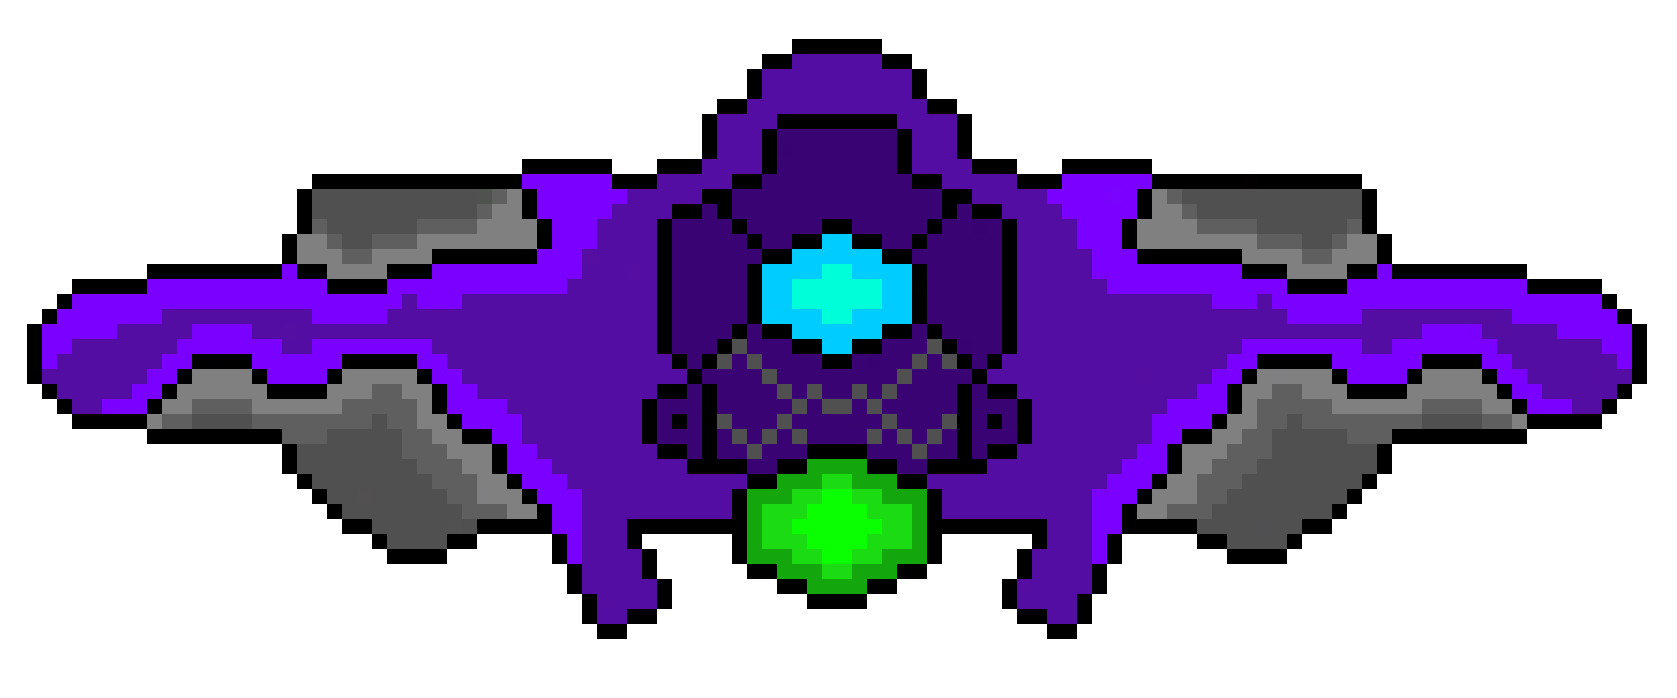
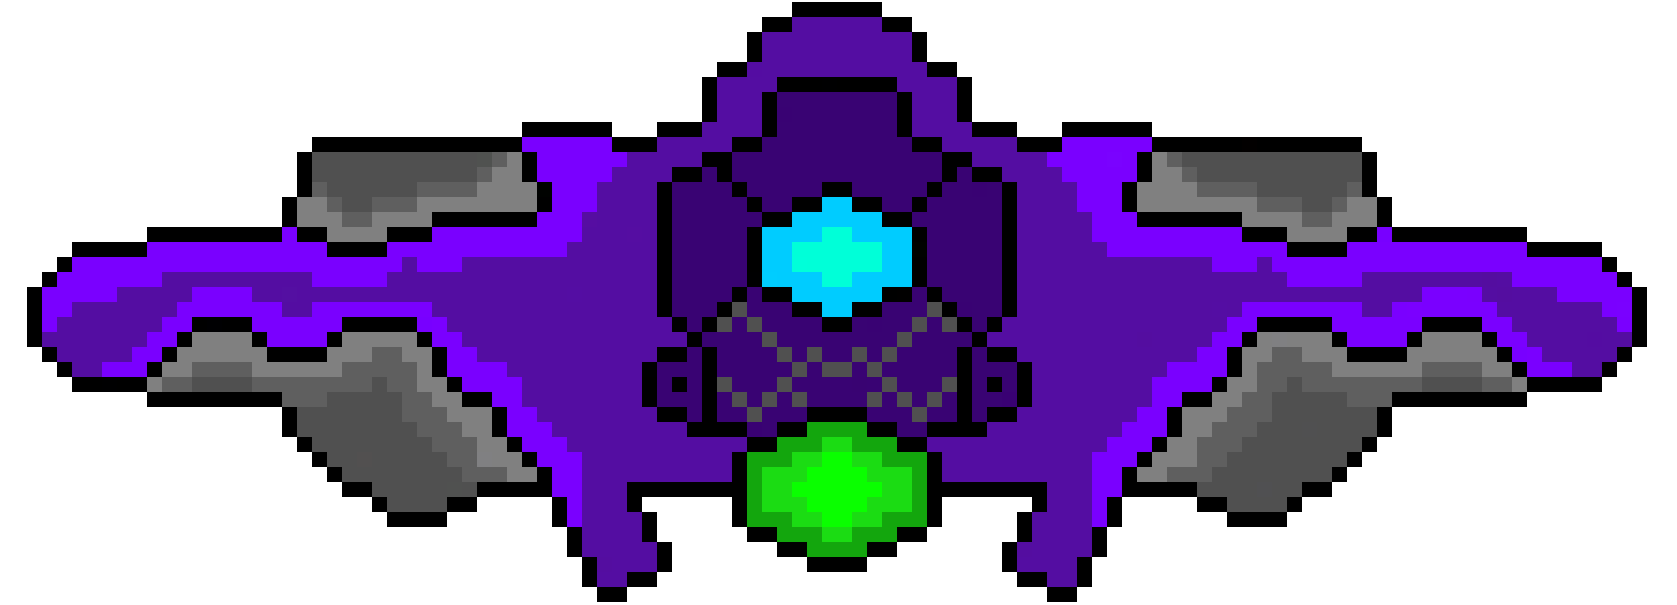
Finishing first Boss

diff --git a/FrontEnd/Script/Gameplay/scriptCollisionManager.js b/FrontEnd/Script/Gameplay/scriptCollisionManager.js
@@ -1,4 +1,7 @@
 
+// Small extra padding for boss ellipse collision axes — helps collisions at canvas edges/corners
+const BOSS_ELLIPSE_PADDING_X = 60; // increases 'a' (horizontal semi-axis)
+
 class CollisionManager {
 
     entities;
@@ -9,28 +12,43 @@ class CollisionManager {
 
     update() {
         for (let i = 0; i < this.entities.length; i++) {
-            const A = this.entities[i];
-            if (!A.active) continue;
+          const A = this.entities[i];
+          if (!A.active) continue;
 
-            for (let j = i + 1; j < this.entities.length; j++) {
+          for (let j = i + 1; j < this.entities.length; j++) {
               const B = this.entities[j];
               if (!B.active) continue;
 
-              if (this.shouldCheck(A, B) && this.isColliding(A, B)) {
-                A.onCollision(B);
-                B.onCollision(A);
+              if (!this.shouldCheck(A, B)) continue;
 
-                // Resolve physical repulsion once (avoid double-applying push from both onCollision calls)
-                if ((A.type === "spaceship" && B.type === "enemy") || (A.type === "enemy" && B.type === "spaceship")) {
-                  // spaceship <-> enemy: strong repulsion, spaceship gets more of the push (p=0.7)
-                  this.resolveRepel(A, B, 0.7, 1.0);
-                } else if (A.type === "enemy" && B.type === "enemy") {
-                  // enemy <-> enemy: weaker repulsion so they don't fly apart so much (p=0.5 symmetric)
-                  this.resolveRepel(A, B, 0.5, 0.35);
-                }
+              let colliding = false;
+
+              if (A.type === "boss" && (B.type === "spaceship" || B.type === "enemy" || (B.type === "bullet" && B.owner === "spaceship"))) {
+                  colliding = this.isCollidingEllipseCircle(A, B);
+              } else if (B.type === "boss" && (A.type === "spaceship" || A.type === "enemy" || (A.type === "bullet" && A.owner === "spaceship"))) {
+                  colliding = this.isCollidingEllipseCircle(B, A);
+              } else {
+                  // fallback para colisão circular existente
+                  colliding = this.isColliding(A, B);
               }
-            }
-        }
+
+              if (colliding) {
+                  A.onCollision(B);
+                  B.onCollision(A);
+
+                  // repulsão física normal (opcional)
+                  if (A.type === "boss") {
+                    this.resolveRepel(A, B, 0, 0.02);  
+                  }
+                  else if (B.type === "boss") {
+                    this.resolveRepel(B, A, 0, 0.02);   
+                  }
+                  else {
+                    this.resolveRepel(A, B, 0.5, 0.35);
+                  }
+              }
+          }
+      }
     }
 
   // Resolve symmetric repulsion between two overlapping circular objects.
@@ -108,6 +126,9 @@ class CollisionManager {
     const t1 = A.type;
     const t2 = B.type;
 
+    if (t1 === "boss" && (t2 === "spaceship" || t2 === "enemy" || (t2 === "bullet" && B.owner === "spaceship"))) return true;
+    if (t2 === "boss" && (t1 === "spaceship" || t1 === "enemy" || (t1 === "bullet" && A.owner === "spaceship"))) return true;
+
     // bullet (from spaceship) hits enemy
     if (t1 === "bullet" && t2 === "enemy") return A.owner === "spaceship";
     if (t2 === "bullet" && t1 === "enemy") return B.owner === "spaceship";
@@ -143,6 +164,35 @@ class CollisionManager {
     const colliding = distance < radiusA + radiusB;
     if (colliding) console.debug(`Collision detected between ${A.type} and ${B.type}`);
     return colliding;
+  }
+
+  isCollidingEllipseCircle(boss, circle) {
+    // Centro da elipse (Boss)
+    const cx = boss.position.x + boss.width / 2;
+    const cy = boss.position.y + boss.height / 2;
+
+  // Semi-eixos da elipse (with padding)
+  const a = boss.width / 2 + BOSS_ELLIPSE_PADDING_X;
+  const b = boss.height / 2;
+
+    // Centro do círculo
+    const ox = circle.position.x + circle.width / 2;
+    const oy = circle.position.y + circle.height / 2;
+
+    // Vetor do centro da elipse para o círculo
+    const dx = ox - cx;
+    const dy = oy - cy;
+
+    // Coordenadas normalizadas
+    const nx = dx / a;
+    const ny = dy / b;
+
+    // Colisão ocorre se o ponto normalizado está dentro da unidade + raio do círculo
+    // Aproximação: radius do círculo em relação ao menor eixo da elipse
+    const r = Math.max(circle.width, circle.height) / 2;
+    const radiusNormalized = r / Math.min(a, b);
+
+    return (nx * nx + ny * ny) <= (1 + radiusNormalized) ** 2;
   }
 }
 

diff --git a/FrontEnd/Script/Models/Bosses/scriptSpaceDreadnought.js b/FrontEnd/Script/Models/Bosses/scriptSpaceDreadnought.js
@@ -4,15 +4,65 @@ import FrontBullet from "../Bullets/scriptFrontBullet.js";
 
 class SpaceDreadnought extends Boss{
 
-    constructor(canvas, life, cash, score) {
+    enemySpawner;
+
+    shootCooldown = 100;
+    spawnCooldown = 300;
+
+    constructor(canvas, life, cash, score, enemySpawner) {
         
-        const aspectRatio = 1677 / 968;
+        const aspectRatio = 1677 / 605;
         const width = canvas.width;
         const height = width / aspectRatio;
         
-        super(0, -450, width, height, 0, life, cash, score, "Space Dreadnought");
+        super(0, -canvas.height * 0.3, width, height, 0, life, cash, score, "Space Dreadnought");
         
+        this.enemySpawner = enemySpawner;
         this.imagePath = PATH_SPACE_DREADNOUGHT_IMAGE;
+    }
+
+    update(player, bulletsArray) {
+        this.updatePhase();
+
+        // Contadores decrescem a cada frame
+        this.shootCooldown--;
+        this.spawnCooldown--;
+
+        // Disparo
+        if (this.shootCooldown <= 0) {
+            this.shoot(player, bulletsArray);
+            this.shootCooldown = this.shootInterval; // definido pela fase
+        }
+
+        // Spawn de inimigos
+        if (this.spawnCooldown <= 0) {
+            this.spawnEnemies();
+            this.spawnCooldown = this.spawnInterval; // definido pela fase
+        }
+    }
+
+    // Define fase com base na vida
+    updatePhase() {
+        const lifePercent = this.life / this.maxLife; // considere maxLife
+        
+        if (lifePercent > 0.7) {
+            this.phase = "initial";
+            this.shootInterval = 200; // frames
+            this.spawnInterval = 450;
+            this.spawnTypes = ["scoutEnemy", "soldierEnemy"];
+        }
+        else if (lifePercent > 0.2) {
+            this.phase = "conflict";
+            this.shootInterval = 120;
+            this.spawnInterval = 300;
+            this.spawnTypes = ["scoutEnemy", "soldierEnemy", "tankEnemy"];
+        }
+        else {
+            this.phase = "desperate";
+            this.shootInterval = 80;
+            this.spawnInterval = 150;
+            this.spawnTypes = ["scoutEnemy", "soldierEnemy", "tankEnemy", "eliteEnemy"];
+        }
     }
 
     shoot(player, bulletsArray) {
@@ -38,6 +88,38 @@ class SpaceDreadnought extends Boss{
             const bulletSpeed = 10;
             const frontBullet = new FrontBullet(turretX, turretY, angle, bulletSpeed, "boss");
             bulletsArray.push(frontBullet);
+        });
+    }
+
+    spawnEnemies() {
+        let positions;
+
+        // Define posições fixas por fase (porcentagem relativa ao Boss)
+        if (this.phase === "initial") {
+            positions = [
+                {x: 0.45, y: 0.75} // só um inimigo
+            ];
+        } else if (this.phase === "conflict") {
+            positions = [
+                {x: 0.3, y: 0.7},
+                {x: 0.5, y: 0.75},
+                {x: 0.7, y: 0.7}
+            ];
+        } else { // desperate
+            positions = [
+                {x: 0.2, y: 0.7},
+                {x: 0.4, y: 0.75},
+                {x: 0.6, y: 0.7},
+                {x: 0.8, y: 0.75},
+                {x: 0.5, y: 0.8}
+            ];
+        }
+
+        // Spawn de inimigos nas posições definidas
+        positions.forEach(pos => {
+            // Escolhe tipo de inimigo aleatoriamente dentro da fase
+            const type = this.spawnTypes[Math.floor(Math.random() * this.spawnTypes.length)];
+            this.enemySpawner.spawnEnemyAt(type, this, pos.x, pos.y);
         });
     }
 }

diff --git a/FrontEnd/Script/Gameplay/scriptSpawner.js b/FrontEnd/Script/Gameplay/scriptSpawner.js
@@ -81,6 +81,62 @@ class EnemySpawner {
                 return { x: this.canvas.width + margin, y: Math.random() * this.canvas.height };
         }
     }
+
+    // No EnemySpawner
+    spawnEnemyAt(enemyType, boss, xPercent, yPercent) {
+        // Calcula posição absoluta na tela
+        const x = boss.position.x + boss.width * xPercent;
+        const y = boss.position.y + boss.height * yPercent;
+
+        let enemy;
+        if (enemyType === "scoutEnemy") {
+            enemy = new ScoutEnemy({x, y});
+        }
+        else if (enemyType === "soldierEnemy") {
+            enemy = new SoldierEnemy({x, y});
+        }
+        else if (enemyType === "tankEnemy") {
+            enemy = new TankEnemy({x, y});
+        }
+        else if (enemyType === "eliteEnemy") {
+            enemy = new EliteEnemy({x, y});
+        }
+
+        // If the spawn position overlaps the boss, push the enemy outward until it's outside
+        try {
+            const bossCx = (boss.position.x || 0) + (boss.width || 0) / 2;
+            const bossCy = (boss.position.y || 0) + (boss.height || 0) / 2;
+            const enemyCx = (enemy.position.x || 0) + (enemy.width || 0) / 2;
+            const enemyCy = (enemy.position.y || 0) + (enemy.height || 0) / 2;
+
+            let dx = enemyCx - bossCx;
+            let dy = enemyCy - bossCy;
+            let dist = Math.hypot(dx, dy);
+
+            const radiusBoss = Math.max(boss.width || 0, boss.height || 0) / 2;
+            const radiusEnemy = Math.max(enemy.width || 0, enemy.height || 0) / 2;
+            const overlap = radiusBoss + radiusEnemy - dist;
+
+            if (overlap >= 0) {
+                // Force spawn BELOW the boss: place enemy right under boss bottom with small padding
+                const padding = 12;
+                const targetX = boss.position.x + boss.width * xPercent; // keep horizontal relative position
+                const targetY = boss.position.y + boss.height + padding;
+
+                enemy.position.x = Math.max(0, Math.min(this.canvas.width - enemy.width, targetX));
+                enemy.position.y = Math.max(0, Math.min(this.canvas.height - enemy.height, targetY));
+
+                // give a small downward velocity so it visibly exits below the boss
+                enemy.vx = (enemy.vx || 0) + 0; // no horizontal impulse
+                enemy.vy = (enemy.vy || 0) + Math.min(padding * 0.6 + 2, 8);
+            }
+        } catch (e) {
+            // if anything goes wrong, at least push the enemy a little to avoid stuck
+            enemy.position.x += 0;
+        }
+
+        this.enemies.push(enemy);
+    }
 }
 
 export default EnemySpawner;

diff --git a/FrontEnd/Script/Gameplay/scriptGameplay.js b/FrontEnd/Script/Gameplay/scriptGameplay.js
@@ -29,9 +29,9 @@ let enemies = [];
 let bullets = [];
 
 let collisionManager = new CollisionManager([]); 
-//let spawner = new EnemySpawner(canvas, enemies, player);
+let spawner = new EnemySpawner(canvas, enemies, player);
 
-let spaceDreadnought = new SpaceDreadnought(canvas, 10, 10, 10); 
+let spaceDreadnought = new SpaceDreadnought(canvas, 10, 10, 10, spawner); 
 
 const gameLoop = () => {
     contex.clearRect(0, 0, canvas.width, canvas.height);
@@ -68,7 +68,10 @@ const gameLoop = () => {
         e.draw(contex);
     });
 
-    collisionManager.entities = [player, ...enemies, ...bullets];
+    spaceDreadnought.draw(contex);
+    spaceDreadnought.update(player, bullets);
+
+    collisionManager.entities = [player, spaceDreadnought,  ...enemies, ...bullets];
     collisionManager.update();
 
     // Integrate repulsion velocities for player and enemies (simple impulse integration + damping)
@@ -125,9 +128,6 @@ const gameLoop = () => {
     for (let i = enemies.length - 1; i >= 0; i--) {
         if (!enemies[i].active) enemies.splice(i, 1);
     }
-
-    spaceDreadnought.draw(contex);
-    spaceDreadnought.shoot(player, bullets);
 
     [ player, ...enemies, ...bullets ].forEach(obj => drawCollisionCircle(contex, obj));
     

diff --git a/FrontEnd/Script/Models/scriptGameObject.js b/FrontEnd/Script/Models/scriptGameObject.js
@@ -62,7 +62,7 @@ class GameObject {
         switch (this.type) {
             case "spaceship":
 
-                updateLife();
+                //updateLife();
                 if (gameObject.type === "bullet") {
                     gameObject.active = false;
                 }
@@ -78,6 +78,12 @@ class GameObject {
             case "bullet":
                 
                 this.active = false;
+                break;
+            case "boss":
+
+                if (gameObject.type === "bullet") {
+                    this.updateLife(getDamage());
+                }
                 break;
         }
     }

diff --git a/FrontEnd/Script/Models/Bosses/scriptBoss.js b/FrontEnd/Script/Models/Bosses/scriptBoss.js
@@ -3,6 +3,7 @@ import { showBossLifeBar, updateBossLifeBar, hideBossLifeBar } from "../../Gamep
 
 class Boss extends GameObject {
 
+    maxLife;
     life;
     cash;
     score;
@@ -14,6 +15,7 @@ class Boss extends GameObject {
         this.position = {x, y};
         this.name = name;
         this.life = life;
+        this.maxLife = life;
         this.cash = cash;
         this.score = score;
 
